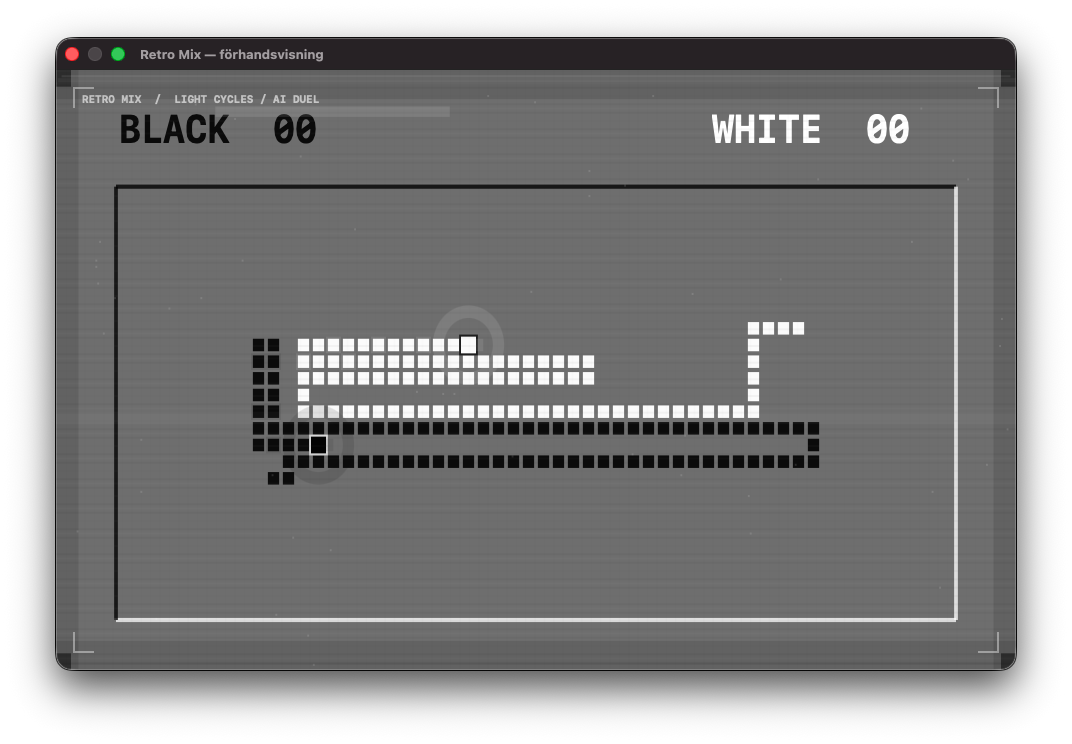
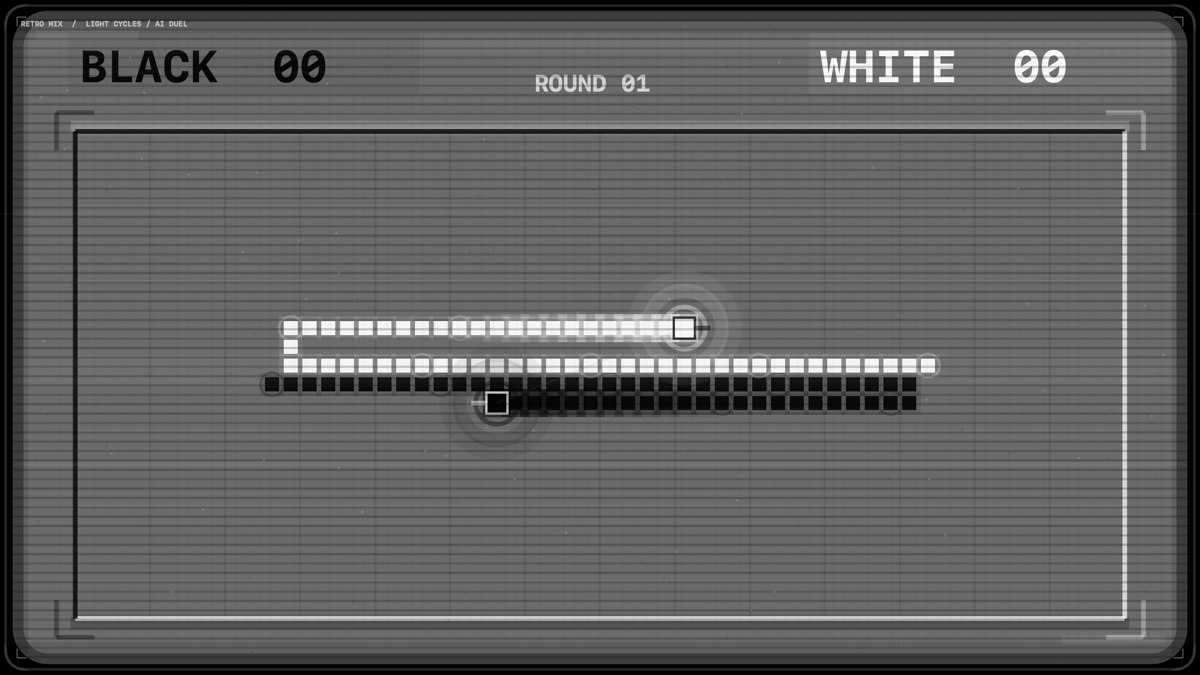
Refresh six-game imagery and 1.2.1 release notes

diff --git a/RELEASE_NOTES.md b/RELEASE_NOTES.md
@@ -1,26 +1,16 @@
-# Retro Mix Arcade 1.2.0
+# Retro Mix Arcade 1.2.1
 
-This update adds two autonomous arcade games while keeping the same Sprint
-monochrome palette and shared CRT settings. Previously issued JMR unlock
-codes remain valid.
+This update brings the other five games closer to Sprint 2's CRT presentation.
 
-## New games
+- Vectoroid, Pong, Light Cycles, Tank Duel, and Breakout now share Sprint's
+  rounded glass aperture, dark tube rim, and subtle lit edge.
+- Scanlines are stronger and more consistent across the games. Sprint's shared
+  scanline, glow, curvature, and intensity controls still govern the display.
+- The glass frame is kept in a static layer so it does not need to be rebuilt
+  for every animation frame.
 
-- **Tank Duel:** two AI tanks steer around cover, rotate with their movement,
-  aim independently, fire, score, and start new rounds.
-- **Breakout:** a predictive AI paddle tracks the ball, breaks bricks, and
-  starts a new level automatically.
-- Each new game has 60 selectable effects, including the common Sprint CRT
-  controls and its own game effects.
-- Mixed mode now rotates through all six games. Existing Mixed selections
-  migrate automatically.
-
-## Display refinements
-
-- Sprint applies its curved-tube warp to the small game image before display.
-- Vectoroid uses a lighter edge vignette and batches scanlines and pixel grille
-  drawing for smoother playback on large screens.
-- Shared effect choices are resolved when settings load across the games.
+The six AI games, Mixed mode, game-specific effects, and existing JMR unlock
+codes are included.
 
 ## Installation
 

diff --git a/README.md b/README.md
@@ -25,8 +25,8 @@ Security → Open Anyway** as described in [Apple's instructions](https://suppor
 
 - Six games played by autonomous opponents.
 - A mixed mode with smooth CRT transitions.
-- Sprint's shared scanlines, glow, curvature, flicker, noise, RGB split, and
-  other screen effects across all games.
+- Sprint-style CRT glass, scanlines, glow, curvature, flicker, noise, RGB split,
+  and other screen effects across all games.
 - Separate game-specific effect controls, including 60 Sprint effects.
 - A preview that follows the currently selected game.
 - Two AI tanks that rotate, steer, and fire in Tank Duel; an AI paddle that
